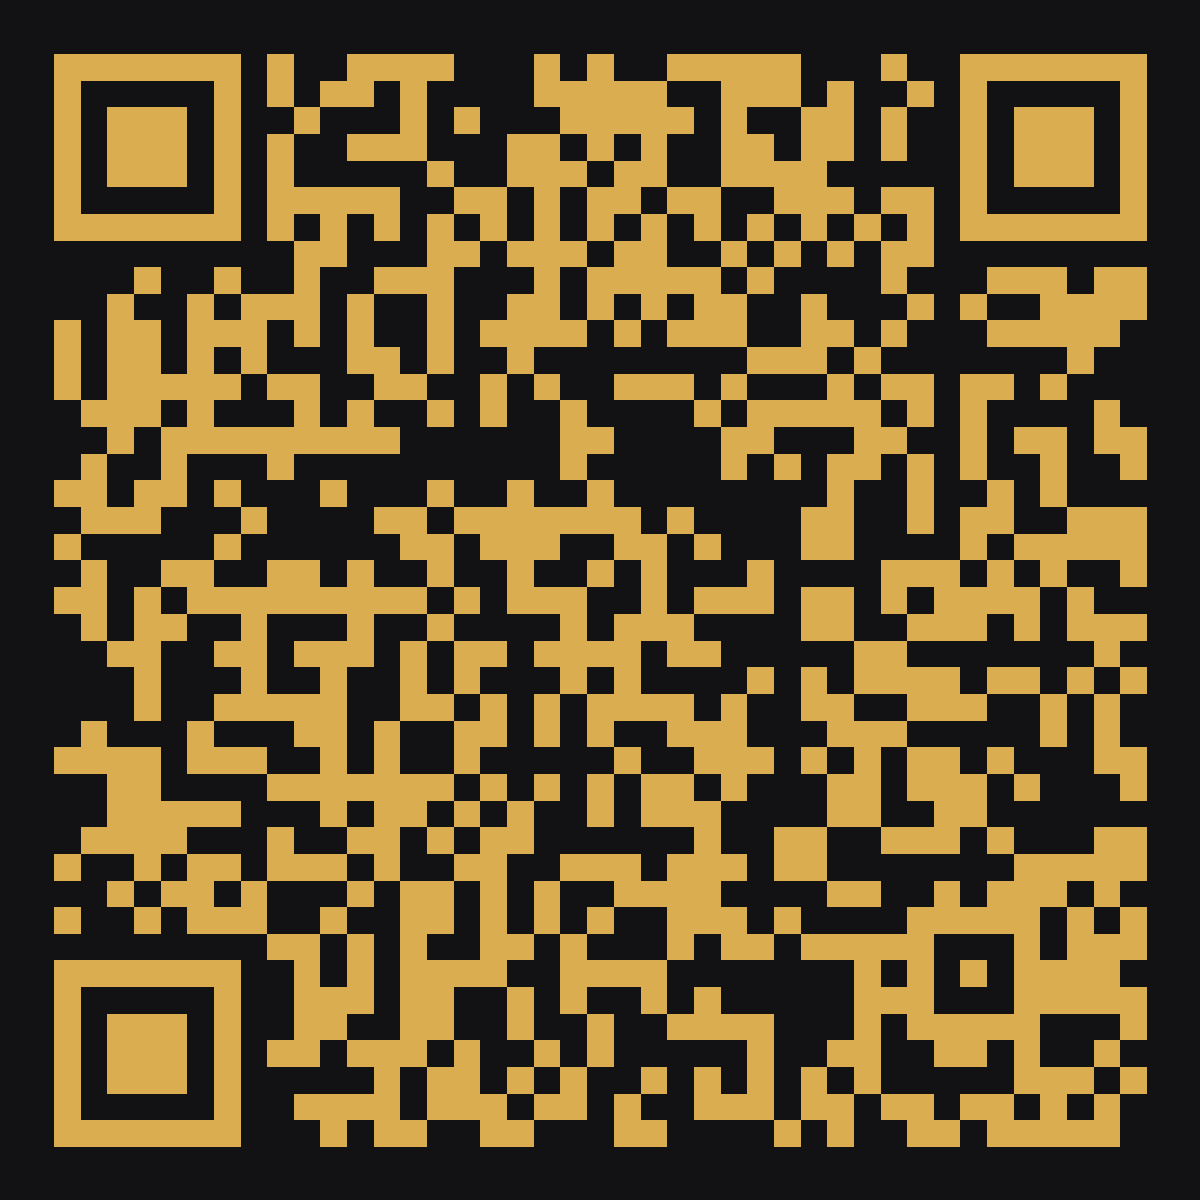
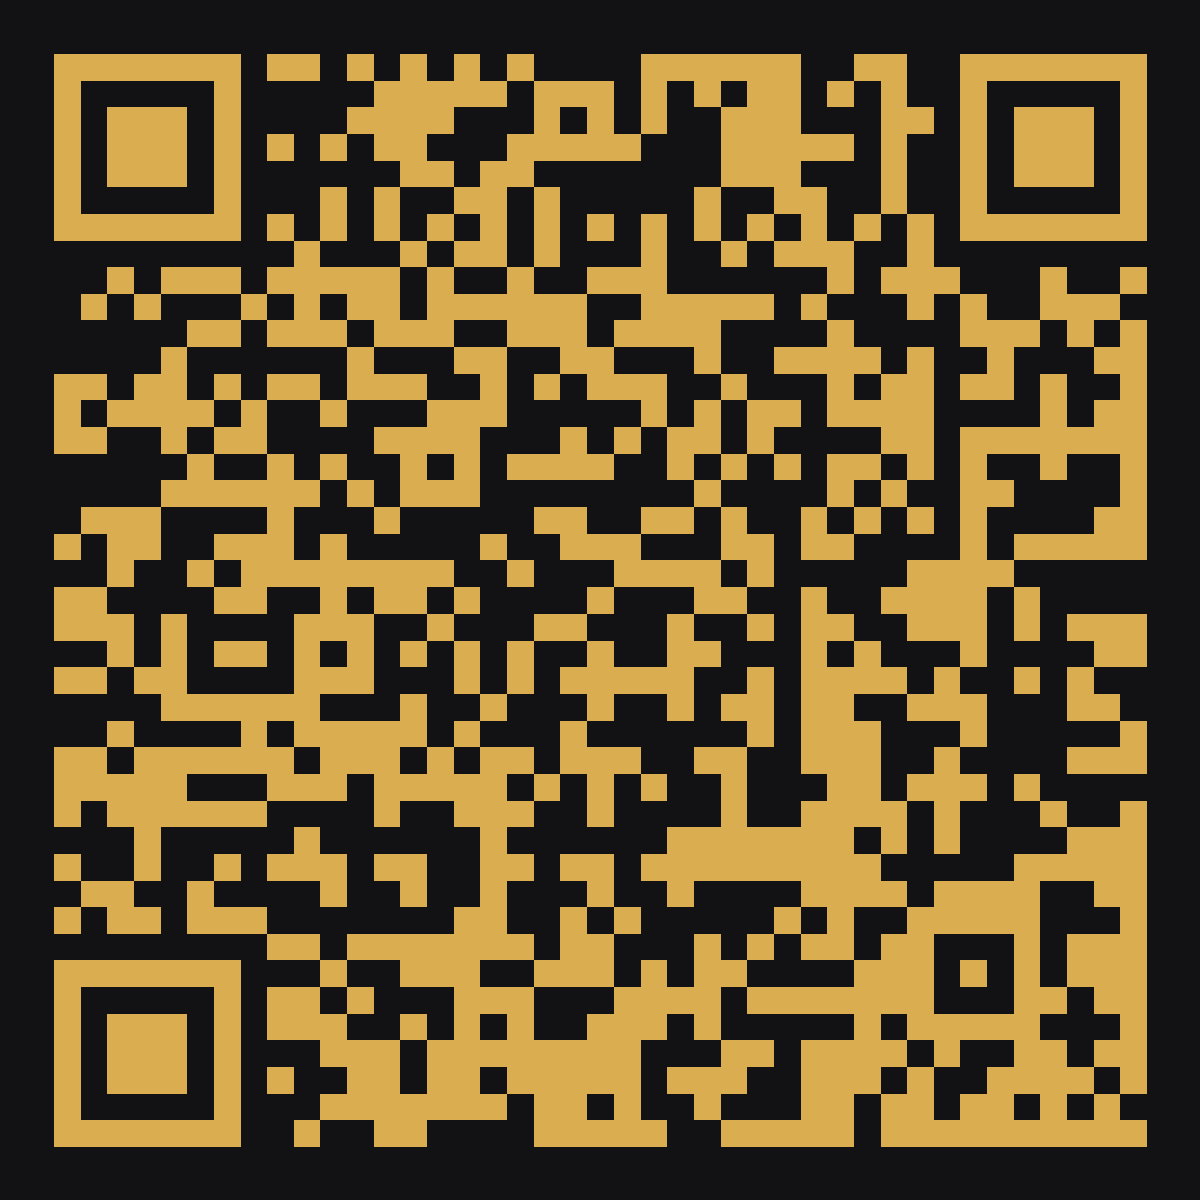
fix(qr): apuntar QR directamente al modal de reserva (/reservar) para escoger servicio de una

diff --git a/public/cartel-qr-reservas.html b/public/cartel-qr-reservas.html
@@ -200,19 +200,19 @@
     <div class="sub-badge">Club de Caballeros</div>
 
     <div class="qr-container">
[2 lines of base64/hex data omitted]
     </div>
 
-    <h2 class="headline">Escanea con tu Celular</h2>
+    <h2 class="headline">Escanea y Reserva tu Cita</h2>
     <p class="instruction">
-      Apunta con la cámara de tu teléfono para ver nuestra <span class="highlight">carta de servicios</span>, precios y <span class="highlight">reservar tu cita</span> al instante.
+      Apunta con la cámara de tu teléfono para <span class="highlight">escoger tu servicio de una</span> y <span class="highlight">reservar tu cita</span> directamente al instante.
     </p>
 
     <div class="divider"></div>
 
     <div class="footer-info">
       Barrio Tobías Daza, Mz B casa 16 · Valledupar
-      <div class="footer-url">barberia-hermanos.vercel.app</div>
+      <div class="footer-url">barberia-hermanos.vercel.app/reservar</div>
     </div>
   </div>
 

diff --git a/src/components/layout/PublicLayout.tsx b/src/components/layout/PublicLayout.tsx
@@ -8,13 +8,21 @@ import BookingModal from '../booking/BookingModal';
 import type { Barber, Service } from '../../types';
 
 interface Props {
+  initialBookingOpen?: boolean;
   /** Recibe la función para abrir la reserva (opcionalmente con un servicio ya elegido). */
   children: (openBooking: (service?: Service, barber?: Barber) => void) => ReactNode;
 }
 
 /** Estructura común de las páginas públicas: menú, contenido, pie de página y ventana de reserva. */
-export default function PublicLayout({ children }: Props) {
-  const [bookingOpen, setBookingOpen] = useState(false);
+export default function PublicLayout({ children, initialBookingOpen = false }: Props) {
+  const [bookingOpen, setBookingOpen] = useState(() => {
+    if (initialBookingOpen) return true;
+    if (typeof window === 'undefined') return false;
+    const path = window.location.pathname;
+    const hash = window.location.hash;
+    const params = new URLSearchParams(window.location.search);
+    return path.startsWith('/reservar') || hash === '#reservar' || params.has('reservar') || params.get('qr') === '1';
+  });
   const [preselectedService, setPreselectedService] = useState<Service | null>(null);
   const [preselectedBarber, setPreselectedBarber] = useState<Barber | null>(null);
 
@@ -24,18 +32,30 @@ export default function PublicLayout({ children }: Props) {
     setBookingOpen(true);
   };
 
-  // Manejo de escaneo de QR o enlaces directos (#servicios, #reservar, ?reservar=1)
+  const handleClose = () => {
+    setBookingOpen(false);
+    if (typeof window !== 'undefined') {
+      const path = window.location.pathname;
+      const hash = window.location.hash;
+      if (path.startsWith('/reservar') || hash === '#reservar') {
+        window.history.replaceState(null, '', '/');
+      }
+    }
+  };
+
+  // Manejo de escaneo de QR o enlaces directos (/reservar, #reservar, ?reservar=1)
   useEffect(() => {
     const handleUrlTriggers = () => {
+      const path = window.location.pathname;
       const hash = window.location.hash;
       const params = new URLSearchParams(window.location.search);
-      const wantsBooking = hash === '#reservar' || params.has('reservar') || params.get('qr') === '1';
+      const wantsBooking = path.startsWith('/reservar') || hash === '#reservar' || params.has('reservar') || params.get('qr') === '1';
 
       if (wantsBooking) {
         setBookingOpen(true);
       }
 
-      if (hash === '#servicios' || wantsBooking) {
+      if (hash === '#servicios') {
         setTimeout(() => {
           const el = document.getElementById('servicios');
           if (el) {
@@ -46,8 +66,12 @@ export default function PublicLayout({ children }: Props) {
     };
 
     handleUrlTriggers();
+    window.addEventListener('popstate', handleUrlTriggers);
     window.addEventListener('hashchange', handleUrlTriggers);
-    return () => window.removeEventListener('hashchange', handleUrlTriggers);
+    return () => {
+      window.removeEventListener('popstate', handleUrlTriggers);
+      window.removeEventListener('hashchange', handleUrlTriggers);
+    };
   }, []);
 
   return (
@@ -68,7 +92,7 @@ export default function PublicLayout({ children }: Props) {
 
       <BookingModal
         isOpen={bookingOpen}
-        onClose={() => setBookingOpen(false)}
+        onClose={handleClose}
         preselectedService={preselectedService}
         preselectedBarber={preselectedBarber}
       />

diff --git a/src/pages/Admin/AdminSettings.tsx b/src/pages/Admin/AdminSettings.tsx
@@ -749,7 +749,7 @@ function RulesTab() {
 
 function QrTab() {
   const [copied, setCopied] = useState(false);
-  const bookingUrl = 'https://barberia-hermanos.vercel.app/#servicios';
+  const bookingUrl = 'https://barberia-hermanos.vercel.app/reservar';
 
   const copyUrl = () => {
     navigator.clipboard.writeText(bookingUrl);
@@ -761,7 +761,7 @@ function QrTab() {
     <div className="space-y-6">
       <Panel
         title="Código QR de Reservas y Servicios"
-        subtitle="Escanea con el celular para ir directo a la carta de servicios y reservar una cita"
+        subtitle="Escanea con el celular para abrir directamente la reserva y escoger el servicio al instante"
       >
         <div className="grid grid-cols-1 md:grid-cols-2 gap-6 items-center">
           {/* Tarjeta de previsualización del QR */}
@@ -774,7 +774,7 @@ function QrTab() {
               />
             </div>
             <p className="font-serif font-bold text-white text-base">Salón Hermanos</p>
-            <p className="text-zinc-400 text-xs mt-0.5">Escanea para ver servicios y reservar</p>
+            <p className="text-zinc-400 text-xs mt-0.5">Escanea para elegir tu servicio y reservar</p>
             <span className="mt-3 inline-flex items-center gap-1.5 px-3 py-1 rounded-full text-[11px] font-mono text-emerald-300 bg-emerald-500/10 border border-emerald-500/25">
               <CheckCircle2 size={12} /> Alta resolución (1200×1200 px)
             </span>
@@ -808,7 +808,7 @@ function QrTab() {
                 <QrCode size={16} /> ¿Cómo funciona este QR?
               </p>
               <p>
-                Al escanearlo con la cámara de cualquier teléfono móvil (iPhone o Android), abre de inmediato la web de <strong className="text-white">Salón Hermanos</strong> y se desplaza automáticamente a la sección de <strong className="text-gold">Servicios</strong> para que el cliente elija el corte o tratamiento y reserve su turno en 1 toque.
+                Al escanearlo con la cámara de cualquier teléfono móvil (iPhone o Android), abre de inmediato la ventana de <strong className="text-white">Reserva de Salón Hermanos</strong> con la lista de servicios en primer plano («¿Qué servicio te gustaría?»), para que el cliente escoja su corte o tratamiento de una y reserve su turno en 1 toque.
               </p>
             </div>
 

diff --git a/scripts/generate-qr.js b/scripts/generate-qr.js
@@ -7,8 +7,8 @@ const __filename = fileURLToPath(import.meta.url);
 const __dirname = path.dirname(__filename);
 const publicDir = path.resolve(__dirname, '../public');
 
-// URL directa a los servicios y reserva de Salón Hermanos
-const BOOKING_URL = 'https://barberia-hermanos.vercel.app/#servicios';
+// URL directa a la reserva de Salón Hermanos (abre de inmediato la elección de servicio)
+const BOOKING_URL = 'https://barberia-hermanos.vercel.app/reservar';
 
 async function main() {
   console.log(`Generando códigos QR para: ${BOOKING_URL}`);
@@ -273,16 +273,16 @@ async function main() {
       <img src="${standardDataUrl}" alt="Código QR de Reservas Salón Hermanos">
     </div>
 
-    <h2 class="headline">Escanea con tu Celular</h2>
+    <h2 class="headline">Escanea y Reserva tu Cita</h2>
     <p class="instruction">
-      Apunta con la cámara de tu teléfono para ver nuestra <span class="highlight">carta de servicios</span>, precios y <span class="highlight">reservar tu cita</span> al instante.
+      Apunta con la cámara de tu teléfono para <span class="highlight">escoger tu servicio de una</span> y <span class="highlight">reservar tu cita</span> directamente al instante.
     </p>
 
     <div class="divider"></div>
 
     <div class="footer-info">
       Barrio Tobías Daza, Mz B casa 16 · Valledupar
-      <div class="footer-url">barberia-hermanos.vercel.app</div>
+      <div class="footer-url">barberia-hermanos.vercel.app/reservar</div>
     </div>
   </div>
 
@@ -298,3 +298,4 @@ main().catch((err) => {
   console.error('Error al generar los códigos QR:', err);
   process.exit(1);
 });
+

diff --git a/src/pages/Landing.tsx b/src/pages/Landing.tsx
@@ -7,15 +7,21 @@ import WhyUs from '../components/landing/WhyUs';
 import Location from '../components/landing/Location';
 import BookingCTA from '../components/landing/BookingCTA';
 
+interface LandingProps {
+  autoOpenBooking?: boolean;
+}
+
 // La galería y la tienda tienen sus propias páginas: /galeria y /shop.
 // Testimonios: oculto hasta tener reseñas reales (las de src/data eran inventadas).
-export default function LandingPage() {
+export default function LandingPage({ autoOpenBooking }: LandingProps = {}) {
   usePageMeta({
-    title: 'Salón Hermanos | Barbería tradicional en Valledupar — Club de Caballeros',
+    title: autoOpenBooking
+      ? 'Reservar Cita | Salón Hermanos — Club de Caballeros'
+      : 'Salón Hermanos | Barbería tradicional en Valledupar — Club de Caballeros',
     description: 'Salón Hermanos, barbería tradicional en Valledupar (barrio Tobías Daza). Corte caballero, niño y dama, degradado, barba, cejas y keratina. Reserva tu cita en línea.',
   });
   return (
-    <PublicLayout>
+    <PublicLayout initialBookingOpen={autoOpenBooking}>
       {(openBooking) => (
         <>
           <Hero onBooking={() => openBooking()} />

diff --git a/src/App.tsx b/src/App.tsx
@@ -11,7 +11,7 @@ const BarberPage = lazy(() => import('./pages/Barber/index'));
 
 const loadingScreen = <div className="min-h-screen bg-dark" />;
 
-type Route = 'landing' | 'admin' | 'barber' | 'galeria' | 'shop' | 'citas';
+type Route = 'landing' | 'admin' | 'barber' | 'galeria' | 'shop' | 'citas' | 'reservar';
 
 const ROUTE_PATHS: Record<Route, string> = {
   landing: '/',
@@ -20,6 +20,7 @@ const ROUTE_PATHS: Record<Route, string> = {
   galeria: '/galeria',
   shop: '/shop',
   citas: '/mis-citas',
+  reservar: '/reservar',
 };
 
 function getRoute(): Route {
@@ -29,6 +30,7 @@ function getRoute(): Route {
   if (path.startsWith('/galeria')) return 'galeria';
   if (path.startsWith('/shop')) return 'shop';
   if (path.startsWith('/mis-citas')) return 'citas';
+  if (path.startsWith('/reservar')) return 'reservar';
   return 'landing';
 }
 
@@ -53,5 +55,6 @@ export default function App() {
   if (route === 'galeria') return <GalleryPage />;
   if (route === 'shop') return <ShopPage />;
   if (route === 'citas') return <MyBookingsPage />;
+  if (route === 'reservar') return <LandingPage autoOpenBooking />;
   return <LandingPage />;
 }
